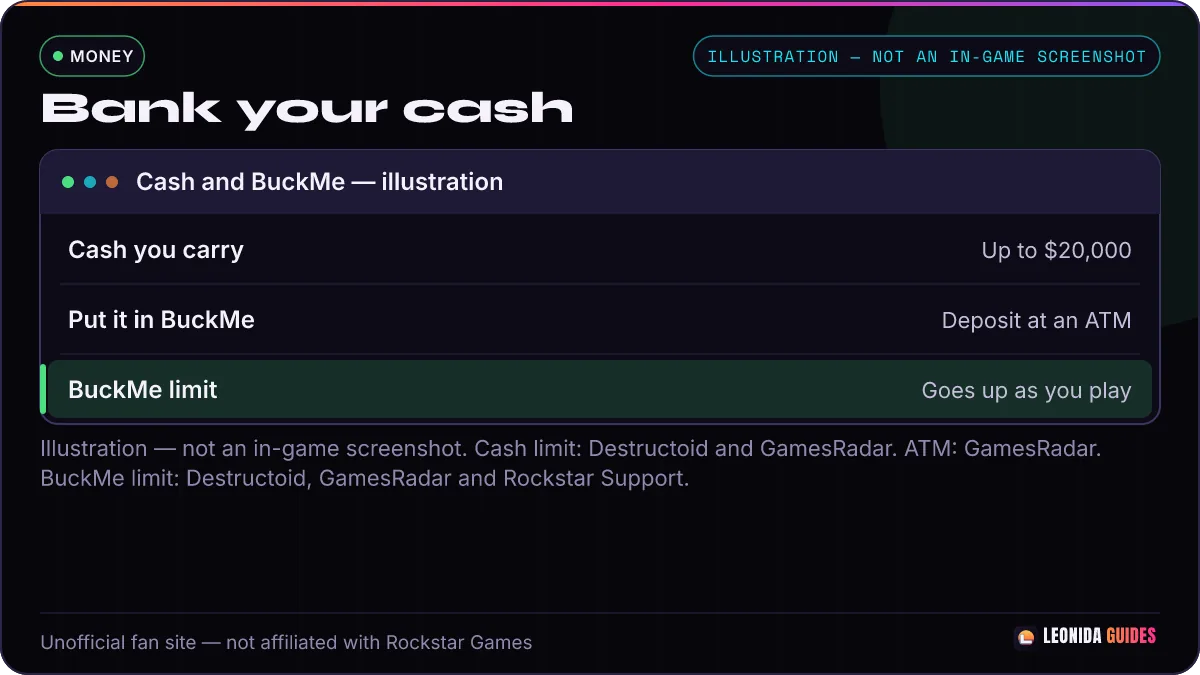
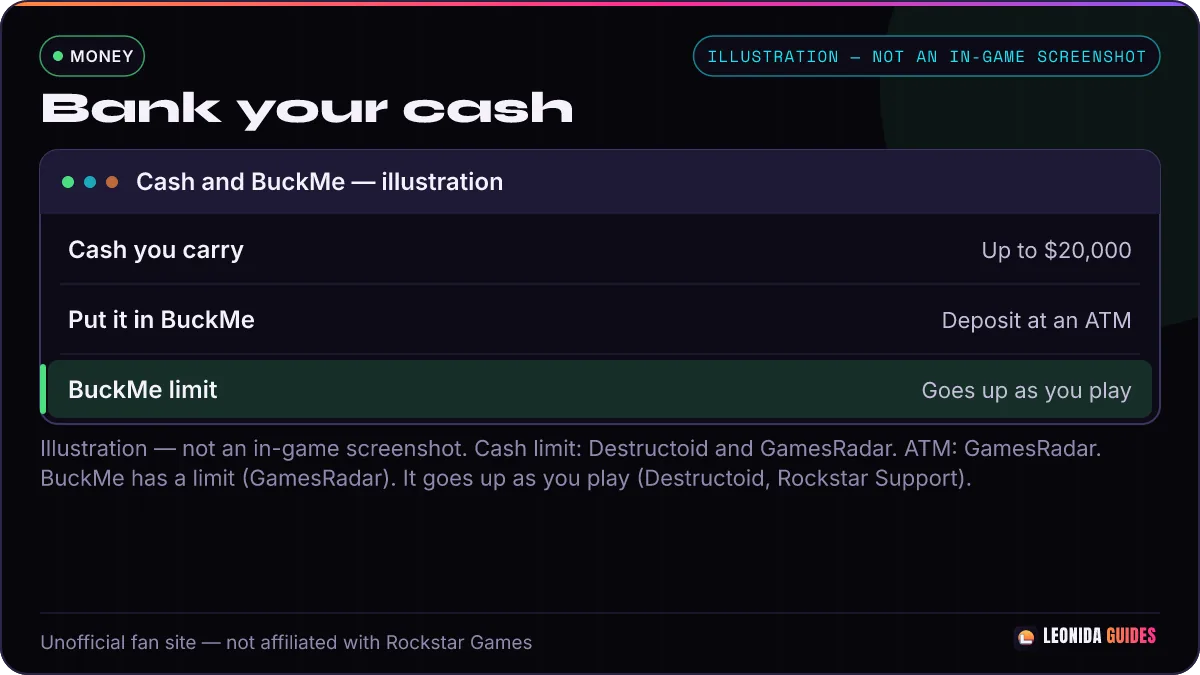
content: auto-publish 2026-11-27T17:41:29.243Z

Changed region(s): [[0.0925, 0.6844, 0.8017, 0.7467]]

diff --git a/content/gta-6-how-to-make-money-fast.md b/content/gta-6-how-to-make-money-fast.md
@@ -9,6 +9,7 @@ category: money
 description: "GTA 6 how to make money fast: 4 ways GameSpot and Destructoid recommend, the $20,000 cash limit, and how not to lose your money. No glitches."
 sources:
   - https://www.gamespot.com/articles/best-ways-to-make-money-fast-in-gta-6/
+  - "GameSpot, steal cars and trackers | https://www.gamespot.com/articles/how-to-steal-cars-and-remove-trackers-in-gta-6/"
   - https://www.destructoid.com/the-best-and-fastest-ways-to-make-money-in-gta-6/
   - "GamesRadar+ | https://www.gamesradar.com/games/grand-theft-auto/gta-6-sell-cars-bikes-how-to/"
   - "GamesRadar+ fence guide | https://www.gamesradar.com/games/grand-theft-auto/gta-6-fences/"
@@ -32,11 +33,11 @@ qa: live-review
 
 > - **Quick answer:** GTA 6 how to make money fast: **raid gang hideouts (yellow map icons) and sell the loot**, and steal cars for paid jobs. Sources disagree on the car pay: GameSpot says those jobs often pay **over $10,000**; PowerPyx says the first buyer's cars usually pay about **$1,000 or more**; GamesRadar says harder-to-get cars can pay high four- or five-digit sums.
 > - **Needs:** most big money opens as the story goes on. Banks open later (Destructoid). GameSpot says about halfway through the story; PowerPyx says the big bank vault robberies open at the end of Chapter 4.
-> - **Warning:** you can carry only **$20,000 in cash** (Destructoid, GamesRadar). Put it in your **BuckMe** account, or you can lose it if you are arrested or die (Destructoid). BuckMe has a limit too; it goes up as you play the story (Destructoid, GamesRadar, Rockstar Support).
+> - **Warning:** you can carry only **$20,000 in cash** (Destructoid, GamesRadar). Put it in your **BuckMe** account, or you can lose it if you are arrested or die (Destructoid). BuckMe has a limit too; it goes up as you play the story (limit: GamesRadar; goes up: Destructoid, Rockstar Support).
 
 **Words used on this page.** *Hideout* is a place where a gang keeps money and goods. *Loot* means things you take. A *fence* is a shop person who buys stolen things. *Focus mode* is a view that shows useful items around you. *Payout* is the money you get.
 
-*We have not timed these methods ourselves yet, so there are no "dollars per hour" numbers here. Facts come from GameSpot (18 Nov 2026) and Destructoid (18 Nov 2026), plus PowerPyx, GamesRadar, and marked player tips in the car section (26 Nov 2026). No glitches or exploits.*
+*We have not timed these methods ourselves yet, so there are no "dollars per hour" numbers here. Facts come from GameSpot (18 Nov 2026) and Destructoid (18 Nov 2026), plus PowerPyx, GamesRadar, Insider Gaming, Polygon, Game Rant and VICE (23–26 Nov), and marked player tips in the car section (26 Nov 2026). No glitches or exploits.*
 
 ## The 4 best ways, at a glance
 
@@ -56,7 +57,7 @@ qa: live-review
 2. Go to an **ATM** when you get close to that (GamesRadar).
 3. Put the money into your **BuckMe** account (Destructoid). BuckMe is the game's bank app.
 
-Destructoid says cash you carry is lost if you are "wasted" (you die) or arrested. Money in BuckMe is safe. BuckMe has a limit too; it goes up as you play the story (Destructoid, GamesRadar, [Rockstar Support](https://support.rockstargames.com/articles/5hSbxodEFeNbU1wARy1p4X/cannot-put-any-more-money-in-my-buckme-account-in-grand-theft-auto-vi)).
+Destructoid says cash you carry is lost if you are "wasted" (you die) or arrested. Money in BuckMe is safe. BuckMe has a limit too; it goes up as you play the story (limit: GamesRadar; goes up: Destructoid, [Rockstar Support](https://support.rockstargames.com/articles/5hSbxodEFeNbU1wARy1p4X/cannot-put-any-more-money-in-my-buckme-account-in-grand-theft-auto-vi)).
 
 ## Method 1: Raid gang hideouts
 
@@ -80,19 +81,19 @@ GameSpot says some hideouts have rare guns and vehicles. You can sell those too.
 4. Drive it to the buyer. GameSpot says the reward is often **over $10,000**. The sources disagree: PowerPyx says the first buyer's cars usually pay about **$1,000 or more**, and that bigger payouts (often **$30,000 or more**) come from the later, high-end buyer. GamesRadar says harder-to-get cars can pay high four- or five-digit sums.
 5. Keep the car in good shape. GameSpot says a later buyer pays more for clean cars.
 
-Two limits: Destructoid says you can only steal a set number of cars a day. GameSpot says a **Pay 'N' Spray** also buys cars, but not cars with a high-end tracker.
+Two limits: Destructoid says you can only steal a set number of cars a day. GameSpot says a **Pay 'N' Spray** also buys cars, but not cars with a high-end tracker. The sources disagree on that last point: [Polygon](https://www.polygon.com/gta-6-advanced-trackers-how-to-disable-deactivate/) says that once you have delivered most cars on the high-end buyer's list, a Pay 'N' Spray will also buy any advanced-tracker car. GameSpot's [tracker guide](https://www.gamespot.com/articles/how-to-steal-cars-and-remove-trackers-in-gta-6/) says Pay 'N' Sprays will not take those cars for a majority of the game.
 
 :::spoiler Who buys the cars and where (names two characters and two places)
 GameSpot says the first buyer is **Moses** in **Port Gellhorn**. He gives you tools for mid-range cars. Later you meet **Randy** in western Vice City. He deals in high-end cars, teaches key cloning, and has a list of more than a dozen cars.
 :::
 
-**Player tips for Advanced-tracker cars you take to the high-end car buyer (unconfirmed).** In the [r/GTAVI car selling thread](https://www.reddit.com/r/GTAVI/comments/1y5liiu/selling_cars_is_such_a_good_way_to_make_money/), [u/misplacedsagacity](https://www.reddit.com/r/GTAVI/comments/1y5liiu/selling_cars_is_such_a_good_way_to_make_money/19t7dtmpie5b7/) says the tracker does not go off if you move the car with a **tow truck**. [u/-lugia-](https://www.reddit.com/r/GTAVI/comments/1y5liiu/selling_cars_is_such_a_good_way_to_make_money/19t7453wcvo83/) says the tracker also stays quiet if the **other main character** drives the stolen car while you drive another, so it arrives at the high-end car buyer without a scratch. Four outlets have since described the partner trick: [Insider Gaming](https://insider-gaming.com/easy-method-randy-supercars-advanced-trackers/) says it tested it many times, and [Polygon](https://www.polygon.com/gta-6-advanced-trackers-how-to-disable-deactivate/), [Game Rant](https://gamerant.com/gta-6-ocelot-jugular-location-randy-grand-theft-auto-6/) and [VICE](https://www.vice.com/en/article/gta-6-advanced-tracker-removal-glitch/) give the steps: tell your partner to **wait in** the stolen car, get into another vehicle, then tell them to **follow you**. Insider Gaming thinks it is a bug, so a patch could stop it.
+**Tips for Advanced-tracker cars you take to the high-end car buyer.** In the [r/GTAVI car selling thread](https://www.reddit.com/r/GTAVI/comments/1y5liiu/selling_cars_is_such_a_good_way_to_make_money/), [u/misplacedsagacity](https://www.reddit.com/r/GTAVI/comments/1y5liiu/selling_cars_is_such_a_good_way_to_make_money/19t7dtmpie5b7/) says the tracker does not go off if you move the car with a **tow truck** (unconfirmed: one player report). [u/-lugia-](https://www.reddit.com/r/GTAVI/comments/1y5liiu/selling_cars_is_such_a_good_way_to_make_money/19t7453wcvo83/) says the tracker also stays quiet if the **other main character** drives the stolen car while you drive another, so it arrives at the high-end car buyer without a scratch. Four outlets also describe the partner trick: [Insider Gaming](https://insider-gaming.com/easy-method-randy-supercars-advanced-trackers/) (23 Nov) says it tested it many times, and [Polygon](https://www.polygon.com/gta-6-advanced-trackers-how-to-disable-deactivate/) (25 Nov), [Game Rant](https://gamerant.com/gta-6-ocelot-jugular-location-randy-grand-theft-auto-6/) (25 Nov) and [VICE](https://www.vice.com/en/article/gta-6-advanced-tracker-removal-glitch/) (26 Nov) give the steps: tell the other main character to **wait in** the stolen car, get into another vehicle, then tell them to **follow you**. Insider Gaming thinks it is probably a bug.
 
 ### Faster car cash: sell at a Pay 'N' Spray
 
 A *tracker* is a device in a car that tells the police where it is. *WAiNK* is the phone app that scans a car before you steal it.
 
-GameSpot does not give a chapter for when Pay 'N' Spray sales open, and it says a shop will not take a car with a high-end tracker. [PowerPyx](https://www.powerpyx.com/gta-6-money-guide-how-to-get-money-fast/) disagrees: it says any Pay 'N' Spray starts buying Standard-tracker cars in **early Chapter 3**. [GamesRadar](https://www.gamesradar.com/games/grand-theft-auto/gta-6-sell-cars-bikes-how-to/) says the first car buyer later puts in a good word with Pay 'N' Sprays. [Its fence guide](https://www.gamesradar.com/games/grand-theft-auto/gta-6-fences/) says you wait until Chapter 3 to sell cars that have a tracker, but that is about the car buyers, not Pay 'N' Spray. A Standard tracker is not the high-end (Advanced) tracker GameSpot means.
+GameSpot does not give a chapter for when Pay 'N' Spray sales open, and its money guide says a shop will not take a car with a high-end tracker. As noted above, Polygon and GameSpot's tracker guide disagree about when a Pay 'N' Spray will take an advanced-tracker car. [PowerPyx](https://www.powerpyx.com/gta-6-money-guide-how-to-get-money-fast/) says any Pay 'N' Spray starts buying Standard-tracker cars in **early Chapter 3**. [GamesRadar](https://www.gamesradar.com/games/grand-theft-auto/gta-6-sell-cars-bikes-how-to/) says the first car buyer later puts in a good word with Pay 'N' Sprays. [Its fence guide](https://www.gamesradar.com/games/grand-theft-auto/gta-6-fences/) says you wait until Chapter 3 to sell cars that have a tracker, but that is about the car buyers, not Pay 'N' Spray. A Standard tracker is not the high-end (Advanced) tracker GameSpot's money guide means.
 
 1. Get to **early Chapter 3**. PowerPyx says that is when any Pay 'N' Spray starts buying cars with a **Standard** tracker, and that a good one pays **around $4,000 or more**. GamesRadar says the first car buyer later puts in a good word with Pay 'N' Sprays.
 2. Go where nice cars drive by. [u/chill2308](https://www.reddit.com/r/GTAVI/comments/1y63mhj/money_tip_chapter_3/) takes a RydeMe to **Vice Beach**.
@@ -139,13 +140,13 @@ GameSpot says that at about the 30% mark you must pay rent at a motel as Lucia, 
 GameSpot says raiding gang hideouts again and again is the way to never worry about money. It also says car jobs often pay over $10,000 each. The sources disagree: PowerPyx says the first buyer's cars usually pay about $1,000 or more, with bigger payouts from the later, high-end buyer. GamesRadar says harder-to-get cars can pay high four- or five-digit sums.
 
 ### Is there a cash limit in GTA 6?
-Yes. Destructoid and GamesRadar say you can carry $20,000 in cash. Put the rest in your BuckMe account (Destructoid). BuckMe has a limit too; it goes up as you play the story (Destructoid, GamesRadar, Rockstar Support).
+Yes. Destructoid and GamesRadar say you can carry $20,000 in cash. Put the rest in your BuckMe account (Destructoid). BuckMe has a limit too; it goes up as you play the story (limit: GamesRadar; goes up: Destructoid, Rockstar Support).
 
 ### Can I rob banks in GTA 6?
 Yes, but later (Destructoid). GameSpot says big banks open about halfway through the story. PowerPyx says the big bank vault robberies only open at the end of Chapter 4. The sources disagree.
 
 ### Is there a money glitch in GTA 6?
-This page covers normal methods only. A story-mode warehouse respawn glitch is reported working as of 25 Nov 2026; it has its own page: [GTA 6 money glitch](/money/gta-6-money-glitch/).
+This page covers normal methods only. A story-mode warehouse respawn glitch has its own page: [GTA 6 money glitch](/money/gta-6-money-glitch/). Status is mixed: since the 23 Nov patch, players disagree on whether it still works. Not tested by us.
 
 ## Updated
 
@@ -158,6 +159,7 @@ This page covers normal methods only. A story-mode warehouse respawn glitch is r
 | 2026-11-26 | Took car-buyer names out of visible text, and credited the Chapter 3 Pay 'N' Spray unlock to PowerPyx only. |
 | 2026-11-26 | Noted where sources disagree on car-job pay and when banks open, sourced the ATM step, and added the BuckMe balance limit. |
 | 2026-11-27 | The partner tip for advanced-tracker cars is now described by Insider Gaming, Polygon, Game Rant and VICE, with the steps. |
+| 2026-11-27 | Corrected the partner-tip date order, matched the money-glitch status in the FAQ, and noted that Polygon and GameSpot disagree about Pay 'N' Spray and advanced-tracker cars. |
 
 ---
 *Unofficial fan site, not affiliated with Rockstar Games or Take-Two.*

diff --git a/content/gta-6-advanced-tracker-glitch.md b/content/gta-6-advanced-tracker-glitch.md
@@ -28,9 +28,9 @@ qa: pending
 
 > - **Quick answer:** clone the key, tell your **partner to wait** in the stolen car, get in **another vehicle**, then tell them to **follow you**. While they drive, the red tracker does not call the police (Insider Gaming, Polygon, VICE).
 > - **What it gets you:** the car arrives with no chase and often no damage. VICE got **$30,000** for one delivery with the perfect bonus. Game Rant lists **$9,650 plus $5,000** for a perfect Ocelot Jugular.
-> - **Status: working**, checked 2026-11-27. Four outlets describe it. Insider Gaming thinks it is a bug, so a patch could close it. Not tested by us.
+> - **Status: working in reports up to 26 Nov.** No newer patch as of 27 Nov. Four outlets describe it. Insider Gaming thinks it is probably a bug. Not tested by us.
 
-**Words used on this page.** A *glitch* is a bug you can use on purpose. A *tracker* is a device in a car that tells the police where it is. An *advanced tracker* is the red one: it calls the police if you drive too slowly. Your *partner* is the main character you are not playing as (Jason or Lucia). The *partner menu* is the list of orders you give your partner. The *key cloner* is a phone tool that opens keyless cars.
+**Words used on this page.** A *glitch* is a bug you can use on purpose. A *tracker* is a device in a car that tells the police where it is. An *advanced tracker* calls the police if you drive too slowly. GameSpot calls this the *red tracker*. Your *partner* is the main character you are not playing as (Jason or Lucia). The *partner menu* is the list of orders you give your partner. The *key cloner* is a phone tool that opens keyless cars.
 
 *Story mode, PS5 and Xbox Series X|S. No mods or PC tools. The buyer's name and the unlock missions are in a closed box.*
 
@@ -40,7 +40,7 @@ qa: pending
 - Polygon says the tracker stays on until the car is registered in your name. Insider Gaming says the buyer tells you there is no real way to switch it off.
 - So the normal way is a fast, nervous drive across the map. One crash or traffic jam can bring the police.
 
-![Our diagram with three boxes: Red tracker, Slow down for about 5 seconds, Police come. Not a game screenshot.](TODO: image:gta-6-advanced-tracker-glitch-step-1 — diagram, our own art: three boxes for the red tracker, slowing down and the police alert)
+![Our diagram with three boxes: Red tracker, Slow down for about 5 seconds, Police come (GameSpot). Not a game screenshot.](TODO: image:gta-6-advanced-tracker-glitch-step-1 — diagram, our own art: three boxes for the red tracker, slowing down and the police alert)
 *Caption: Diagram. Why advanced-tracker cars are hard to deliver.*
 
 ## Before you start
@@ -52,7 +52,7 @@ qa: pending
 :::spoiler Who buys these cars and when the tracker unlocks (names a character and two missions)
 The buyer is **Randy**. He has a **Wish List** of high-end cars. Polygon says you unlock the key cloner after stealing a **Zorusso** for Randy at the start of **Chapter 3**.
 
-VICE says the glitch works before Randy's official tracker removal. VICE says that service unlocks after the Chapter 4 mission **Photo/Shoot**, delivering the **Declasse Mamba GT** and a follow-up call from Randy. Polygon says that once you have delivered most cars on the Wish List, you can sell any advanced-tracker car to Randy or a Pay 'n' Spray.
+VICE says the glitch works before Randy's official tracker removal. VICE says that service unlocks after the Chapter 4 mission **Photo/Shoot**, delivering the **Declasse Mamba GT** and a follow-up call from Randy. GameSpot says red-tracker removal at a Pay 'n' Spray comes only after you finish all of the buyer's car jobs. Polygon says that once you have delivered most cars on the Wish List, you can sell any advanced-tracker car to Randy or a Pay 'n' Spray.
 :::
 
 ## How to do the advanced tracker glitch
@@ -60,7 +60,7 @@ VICE says the glitch works before Randy's official tracker removal. VICE says th
 1. Find the car you want. Open it with the **key cloner** (VICE).
 2. Let **both** characters get in. **Do not drive off.** Polygon says the tracker does not start if you do not start driving.
 3. Hold **Right on the D-pad** to open the partner menu (Polygon, VICE, Game Rant).
-4. Pick **Wait In**, so your partner stays in the car (VICE). Game Rant says the button is **Square on PS5** or **X on Xbox**.
+4. Pick **Wait In**, so your partner stays in the car (VICE). Game Rant says to press **Square or X**.
 5. Get out. Get into your **second vehicle** (Polygon, VICE).
 6. Hold **Right on the D-pad** again. Pick **Follow Me** (VICE, Polygon).
 7. Drive to the buyer at a normal speed. Your partner drives the stolen car behind you. The tracker does not go off, even when they drive slowly (Insider Gaming).
@@ -90,29 +90,27 @@ Polygon says this also works when you take a tracked car to a Pay 'n' Spray, onc
 
 Polygon says the tracker will go off at that moment, but it does not matter if you drive in at once.
 
-![Our diagram with two cards: The glitch does (no police on the way, car arrives in good shape) and The glitch does not (remove the tracker, let you register the car). Not a game screenshot.](TODO: image:gta-6-advanced-tracker-glitch-step-3 — diagram, our own art: two cards, what the trick does and what it does not do)
+![Our diagram with two cards: It does (no police on the way, car arrives in good shape) and It does not (remove the tracker). Not a game screenshot.](TODO: image:gta-6-advanced-tracker-glitch-step-3 — diagram, our own art: two cards, what the trick does and what it does not do)
 *Caption: Diagram. The trick moves the car safely. It does not remove the tracker.*
 
 ## Tips and problems
 
 - **The car gets damaged.** Polygon says your partner tends to copy your driving. Drive carefully and the stolen car usually arrives in good shape too.
-- **Hard places.** Insider Gaming says it is harder when the car is parked in an awkward or guarded spot. You still have to get the car out yourself.
+- **Some spots are harder.** Insider Gaming says it is harder in some spots, for example when the car is shut in somewhere.
 - **It does not remove the tracker.** If you drive the car yourself, the tracker works as normal (Polygon).
 - **Other way: tow it.** Insider Gaming says a car with a winch can tow the stolen car, but it is slower and clumsy in city streets.
 
 ## Is it patched?
 
-**Status: working**, checked 2026-11-27. Not tested by us.
+**Status: working in reports up to 26 Nov.** No newer patch as of 27 Nov. Not tested by us.
 
-- [Insider Gaming](https://insider-gaming.com/easy-method-randy-supercars-advanced-trackers/) first wrote it up on 23 Nov and says it verified the trick numerous times. It thinks it is probably a bug.
-- [Rockstar Support's 23 Nov Launch Updates](https://support.rockstargames.com/articles/sN5pEdFYZdlvijKXd6xpJ/grand-theft-auto-vi-launch-updates-ps5-xbox-series-x-or-s) do not mention trackers.
+- [Insider Gaming](https://insider-gaming.com/easy-method-randy-supercars-advanced-trackers/), the earliest of these four write-ups (23 Nov), says it verified the trick numerous times. It thinks it is probably a bug.
+- [Rockstar Support's 23 Nov Launch Updates](https://support.rockstargames.com/articles/sN5pEdFYZdlvijKXd6xpJ/grand-theft-auto-vi-launch-updates-ps5-xbox-series-x-or-s) do not mention trackers. We have not found a later Rockstar statement about this trick.
 - [Polygon](https://www.polygon.com/gta-6-advanced-trackers-how-to-disable-deactivate/) (25 Nov), [Game Rant](https://gamerant.com/gta-6-ocelot-jugular-location-randy-grand-theft-auto-6/) (25 Nov) and [VICE](https://www.vice.com/en/article/gta-6-advanced-tracker-removal-glitch/) (26 Nov) all describe it working. Those guides came out after that update.
-
-We have found no statement from Rockstar about it.
 
 ## Credits
 
-First outlet write-up and testing: Grant Taylor-Hill at [Insider Gaming](https://insider-gaming.com/easy-method-randy-supercars-advanced-trackers/). Pay 'n' Spray steps and damage tip: [Polygon](https://www.polygon.com/gta-6-advanced-trackers-how-to-disable-deactivate/). Taxi shortcut and button names: Tom Bowen at [Game Rant](https://gamerant.com/gta-6-ocelot-jugular-location-randy-grand-theft-auto-6/). Step-by-step and payout: Brent Koepp at [VICE](https://www.vice.com/en/article/gta-6-advanced-tracker-removal-glitch/). Tracker speed rule: [GameSpot](https://www.gamespot.com/articles/how-to-steal-cars-and-remove-trackers-in-gta-6/). Players shared the same idea in the [r/GTAVI car selling thread](https://www.reddit.com/r/GTAVI/comments/1y5liiu/selling_cars_is_such_a_good_way_to_make_money/).
+Earliest of these four write-ups (23 Nov) and testing: Grant Taylor-Hill at [Insider Gaming](https://insider-gaming.com/easy-method-randy-supercars-advanced-trackers/). Pay 'n' Spray steps and damage tip: [Polygon](https://www.polygon.com/gta-6-advanced-trackers-how-to-disable-deactivate/). Taxi shortcut and Square or X prompt: Tom Bowen at [Game Rant](https://gamerant.com/gta-6-ocelot-jugular-location-randy-grand-theft-auto-6/). Step-by-step and payout: Brent Koepp at [VICE](https://www.vice.com/en/article/gta-6-advanced-tracker-removal-glitch/). Tracker speed rule and red-tracker name: [GameSpot](https://www.gamespot.com/articles/how-to-steal-cars-and-remove-trackers-in-gta-6/). Players shared the same idea in the [r/GTAVI car selling thread](https://www.reddit.com/r/GTAVI/comments/1y5liiu/selling_cars_is_such_a_good_way_to_make_money/).
 
 Related: [How to steal cars in GTA 6](/cars/gta-6-how-to-steal-cars/) · [How to scan cars in GTA 6](/cars/gta-6-how-to-scan-cars/) · [GTA 6 how to make money fast](/money/gta-6-how-to-make-money-fast/)
 
@@ -124,11 +122,11 @@ No. It only stops the tracker calling the police while your partner drives. The 
 ### Does it matter if I play as Jason or Lucia?
 No. Polygon says either character can lead while the other drives the stolen car.
 
-### How much does a Wish List car pay?
+### How much does a high-end car job pay?
 It depends on the car. VICE got $30,000 for one delivery with the perfect bonus. Game Rant lists $9,650 plus $5,000 for a perfect Ocelot Jugular.
 
 ### Is the advanced tracker glitch patched?
-Not as of 2026-11-27. The 23 Nov patch notes do not mention trackers, and Polygon, Game Rant and VICE describe it working after that update. Insider Gaming thinks it is a bug, so it could be fixed later.
+Not in reports up to 26 Nov. No newer patch as of 27 Nov. Not tested by us. The 23 Nov Launch Updates do not mention trackers, and Polygon, Game Rant and VICE describe it working after that update. Insider Gaming thinks it is probably a bug.
 
 ### Do I need mods or a PC?
 No. It uses normal partner orders in story mode on PS5 or Xbox.
@@ -138,6 +136,7 @@ No. It uses normal partner orders in story mode on PS5 or Xbox.
 | Date | What changed |
 |---|---|
 | 2026-11-27 | Page created from Insider Gaming, Polygon, Game Rant, VICE and GameSpot. Not tested by us. |
+| 2026-11-27 | Clarified button wording, status and what the trick does not do. |
 
 ---
 *Unofficial fan site, not affiliated with Rockstar Games or Take-Two.*

diff --git a/content/gta-6-money-glitch.md b/content/gta-6-money-glitch.md
@@ -15,9 +15,6 @@ sources:
   - https://support.rockstargames.com/articles/sN5pEdFYZdlvijKXd6xpJ/grand-theft-auto-vi-launch-updates-ps5-xbox-series-x-or-s
   - https://www.videogameschronicle.com/news/grand-theft-auto-6-has-received-a-new-patch-which-fixes-autosaving/
   - https://www.polygon.com/gta-6-update-today-ver-01002002-where-is-ps5-xbox-download-size-patch-notes/
-  - "u/Axthonii on r/gtaglitches | https://www.reddit.com/r/gtaglitches/comments/1y6ocrb/gta_6_the_absolute_fastest_money_glitch_right_now/"
-  - "Supershredder on YouTube | https://www.youtube.com/watch?v=SeJzzPozjQE"
-  - "GTA BOOM | https://www.gtaboom.com/gta-6-nude-glitch-and-money-exploit-survives-first-patch-cd3d"
   - "Notebookcheck | https://www.notebookcheck.net/New-GTA-6-update-leaves-infinite-money-glitch-untouched.1457986.0.html"
 updated: 2026-11-27
 published: 2026-11-25
@@ -102,22 +99,6 @@ GameSpot's total: **20 bags in two vans plus 4 carried = about $254,400**, in **
 ![Our chart: payout per run by method, from GameSpot and player claims. Not a game screenshot.](TODO: image:gta-6-money-glitch-step-3 — diagram, our own art: compare table of the three routes and what each source says they pay)
 *Caption: Diagram. What each route pays, and who says so.*
 
-### New player variant: overfill one bag by dropping it (unconfirmed, 27 Nov)
-
-On 27 Nov, [u/Axthonii posted a shortcut on r/gtaglitches](https://www.reddit.com/r/gtaglitches/comments/1y6ocrb/gta_6_the_absolute_fastest_money_glitch_right_now/) that skips the van setup. It links a [YouTube video by Supershredder](https://www.youtube.com/watch?v=SeJzzPozjQE) that claims about $500,000 a minute. The moderators removed the post as a repost, so the link may show as removed. The steps from the post, with the clearer order from [u/rdjh's comment](https://www.reddit.com/r/gtaglitches/comments/1y6ocrb/gta_6_the_absolute_fastest_money_glitch_right_now/19t9ik1wuguxs/):
-
-1. At the teddy bear vans, put some loot in your stash bag.
-2. **Drop the bag** while standing. Do not move.
-3. **Crouch.** Pick the bag up, then drop it again while crouched (u/rdjh).
-4. Pick it up again. Repeat. u/Axthonii says the bag's capacity goes up each time.
-5. Stop at about **$150,000 in one bag** (u/Axthonii).
-6. Store the bag, switch characters, and repeat.
-
-u/rdjh says it works with **any stash bag**, not only drugs. [u/I_m8d_n_acc_4_this](https://www.reddit.com/r/gtaglitches/comments/1y6ocrb/gta_6_the_absolute_fastest_money_glitch_right_now/19t9e9rgsq6ci/) says it worked with jewelry store loot, even out on a boat.
-
-> [!WARNING]
-> **Payouts are not reliable.** [u/BlackPointPL](https://www.reddit.com/r/gtaglitches/comments/1y6ocrb/gta_6_the_absolute_fastest_money_glitch_right_now/19t9fzcnnvxk1/) says it looked like it worked, but the money never came after selling. [u/Vertzz](https://www.reddit.com/r/gtaglitches/comments/1y6ocrb/gta_6_the_absolute_fastest_money_glitch_right_now/19t9n0e3okfc5/) says a fence paid them only $6. No outlet has tested it. Save first, and try one bag before you spend time on it.
-
 ## Problems and fixes
 
 - **Bag only holds about $3,200 to $4,000.** [u/densestport](https://www.reddit.com/r/gtaglitches/comments/1y1gou5/gta_6_unlimited_money_red_barn_apollo_aggregates/19syaihj1i20w/) says if your bag limit is **$3,200**, stop adding drugs at **$2,800**, then open the safe. The bag then held **$4,000**.
@@ -132,7 +113,7 @@ u/rdjh says it works with **any stash bag**, not only drugs. [u/I_m8d_n_acc_4_th
 
 - [Rockstar Support's 23 Nov Launch Updates](https://support.rockstargames.com/articles/sN5pEdFYZdlvijKXd6xpJ/grand-theft-auto-vi-launch-updates-ps5-xbox-series-x-or-s) list seven fixes. None is this glitch. [VGC](https://www.videogameschronicle.com/news/grand-theft-auto-6-has-received-a-new-patch-which-fixes-autosaving/) and [Polygon](https://www.polygon.com/gta-6-update-today-ver-01002002-where-is-ps5-xbox-download-size-patch-notes/) report this list as update **01.002.002**. One of the seven fixes is partners not handing over bags to sell to fences.
 - GameSpot's guide (published 23 Nov, US time) does not give a test date and does not say it was tested after the patch. [u/lilsteve68](https://www.reddit.com/r/gtaglitches/comments/1y3y1ny/gta_6_infinite_money_glitch_optimised/19t3j0e2fgo9x/) says they "just tested it straight after I updated" and it still worked. [u/DONTUSECAPSLOCK](https://www.reddit.com/r/gtaglitches/comments/1y1gou5/gta_6_unlimited_money_red_barn_apollo_aggregates/19t2ud2na15fl/) said on 23 Nov, "Just checked, and yes it still works."
-- [GTA BOOM](https://www.gtaboom.com/gta-6-nude-glitch-and-money-exploit-survives-first-patch-cd3d) said on 24 Nov that it can confirm the warehouse trick still works after the patch (it describes the save-and-reload loop, about $8,000 to $10,000 a run). [Notebookcheck](https://www.notebookcheck.net/New-GTA-6-update-leaves-infinite-money-glitch-untouched.1457986.0.html) also reports the update left it untouched.
+- [Notebookcheck](https://www.notebookcheck.net/New-GTA-6-update-leaves-infinite-money-glitch-untouched.1457986.0.html) reports the update left this glitch untouched. This is one outlet's report, not proof it still works.
 - Some players report it failing. [u/Matrix-tk](https://www.reddit.com/r/gtaglitches/comments/1y1gou5/gta_6_unlimited_money_red_barn_apollo_aggregates/19t04izcvtzgl/) says the trucks were gone later in the story. [u/Initial_Branch954](https://www.reddit.com/r/gtaglitches/comments/1y3y1ny/gta_6_infinite_money_glitch_optimised/19t4ajx4aks82/) says payouts fell from $18k to $12k to $3.5k and they thought it was patched. [u/Blood_Soaked_Bat](https://www.reddit.com/r/gtaglitches/comments/1y3y1ny/gta_6_infinite_money_glitch_optimised/19t4mkvg3vg0z/) says it doesn't work anymore: the vans were gone the next day.
 
 Sell often and bank your money.
@@ -170,7 +151,8 @@ Related: [GTA 6 fences and stash bags](/money/gta-6-fences-stash-bags/) · [GTA 
 
 | Date | What changed |
 |---|---|
-| 2026-11-27 | Added the new drop-and-crouch bag variant from r/gtaglitches (unconfirmed, payout problems reported), and GTA BOOM's and Notebookcheck's post-patch reports. |
+| 2026-11-27 18:35 CET | Removed a player variant that cited a deleted Reddit post, and dropped one post-patch source that was not suitable for this page. |
+| 2026-11-27 | Added Notebookcheck's post-patch report. |
 | 2026-11-26 08:33 CET | Named who says not to drive the teddy bear vans away, and noted that u/lilsteve68's route disagrees. Updated the two diagrams. |
 | 2026-11-25 22:31 CET | Status set to mixed: players disagree since the update. Fixed the Quick answer fragment and quoted "doesn't work anymore" accurately. |
 | 2026-11-25 21:37 CET | Fixed sourcing and credits after SEARCH QA: named the right sources, stated disagreements, cited official patch notes, and added comment links. |
